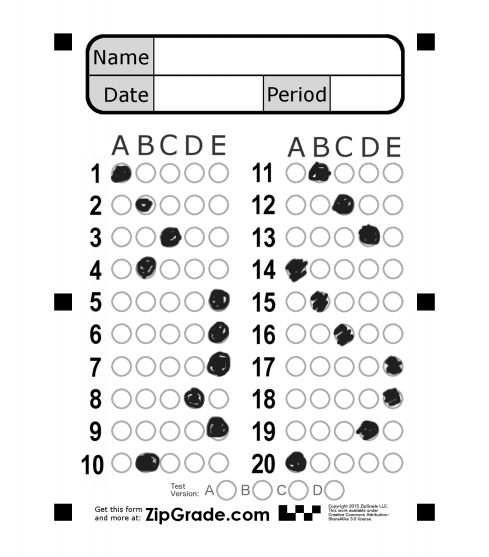
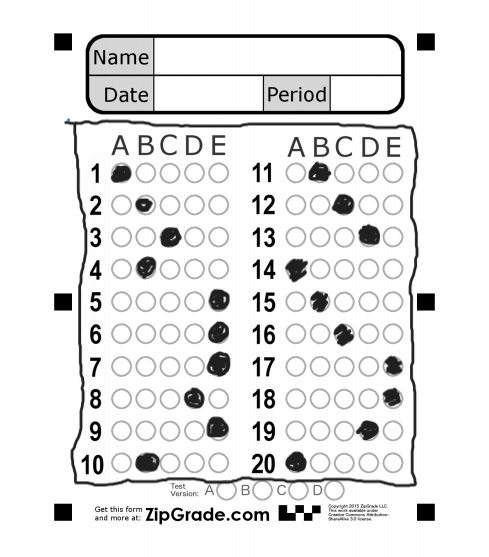
Hecho la parte de obtencion del area de preguntas, falta verificar y obtener el recorte por cada renglon de bolitas para hacer el calculo de caracteristicas

Changed region(s): [[0.1227, 0.2136, 0.8589, 0.8851], [0.1227, 0.7935, 0.1534, 0.8546]]

diff --git a/main.py b/main.py
@@ -1,3 +1,84 @@
-# TODO: Exam Grader
 import cv2 as cv
+import numpy as np
+import random
 
+imagen_original = cv.imread("exam2.png", cv.IMREAD_GRAYSCALE)
+
+# Deteccion de bordes
+imagen_suavizada = cv.blur(imagen_original, (5,5))
+_, imagen_binarizada = cv.threshold(imagen_suavizada, 150, 255, cv.THRESH_BINARY_INV)
+
+# Deteccion de objetos convexos
+contornos,_ = cv.findContours(imagen_binarizada, cv.RETR_TREE, cv.CHAIN_APPROX_SIMPLE)
+contorno = sorted(contornos, key=cv.contourArea, reverse=True)[0]
+resultado = np.zeros((imagen_original.shape[0], imagen_original.shape[1], 3), dtype=np.uint8)
+
+poi = cv.convexHull(contorno)
+
+# Area de interes
+color = (random.randint(0,255),random.randint(0,255),random.randint(0,255))
+cv.drawContours(resultado, [poi], -1, color, 2)
+
+# Segmentacion del punto de interes
+mascara = np.zeros((imagen_binarizada.shape[0] , imagen_binarizada.shape[1]), dtype=np.uint8)
+cv.fillPoly(mascara, [poi], 255)
+region = cv.bitwise_and(imagen_suavizada, imagen_suavizada, mask=mascara)
+x, y, w, h = cv.boundingRect(poi)
+recorte_final = region[y:y+h, x:x+w]
+
+# Correccion de perspectiva con tecnica homografica
+def ordenar_puntos(puntos):
+    rect = np.zeros((4, 2), dtype="float32")
+    puntos = puntos.reshape(4, 2)
+    
+    suma = puntos.sum(axis=1)
+    rect[0] = puntos[np.argmin(suma)]
+    rect[2] = puntos[np.argmax(suma)]
+    
+    diff = np.diff(puntos, axis=1)
+    rect[1] = puntos[np.argmin(diff)]
+    rect[3] = puntos[np.argmax(diff)]
+    
+    return rect
+
+perimetro = cv.arcLength(poi, True)
+epsilon = 0.02 * perimetro
+contorno_examen = cv.approxPolyDP(poi, epsilon, True)
+
+# si no da 4 puntos, ir subiendo epsilon hasta lograrlo
+intentos = 0
+while len(contorno_examen) != 4 and intentos < 10:
+    epsilon *= 1.1
+    contorno_examen = cv.approxPolyDP(poi, epsilon, True)
+    intentos += 1
+
+if len(contorno_examen) != 4:
+    raise ValueError("No se pudo aproximar el contorno a 4 puntos")
+
+rectangulo = ordenar_puntos(contorno_examen)
+(tl, tr, br, bl) = rectangulo
+
+anchuraA = np.sqrt(((br[0] - bl[0]) ** 2) + ((br[1] - bl[1]) ** 2))
+anchuraB = np.sqrt(((tr[0] - tl[0]) ** 2) + ((tr[1] - tl[1]) ** 2))
+max_ancho = max(int(anchuraA), int(anchuraB))
+
+alturaA = np.sqrt(((tr[0] - br[0]) ** 2) + ((tr[1] - br[1]) ** 2))
+alturaB = np.sqrt(((tl[0] - bl[0]) ** 2) + ((tl[1] - bl[1]) ** 2))
+max_alto = max(int(alturaA), int(alturaB))
+
+destino = np.array([
+    [0, 0],
+    [max_ancho - 1, 0],
+    [max_ancho - 1, max_alto - 1],
+    [0, max_alto - 1]
+], dtype="float32")
+
+matriz = cv.getPerspectiveTransform(rectangulo, destino)
+examen_aplanado = cv.warpPerspective(imagen_suavizada, matriz, (max_ancho, max_alto))
+
+cv.imshow("Imagen",imagen_binarizada)
+cv.imshow("Imagen2",recorte_final)
+cv.imshow("Examen Aplanado", examen_aplanado)
+
+cv.waitKey(0)
+cv.destroyAllWindows()
